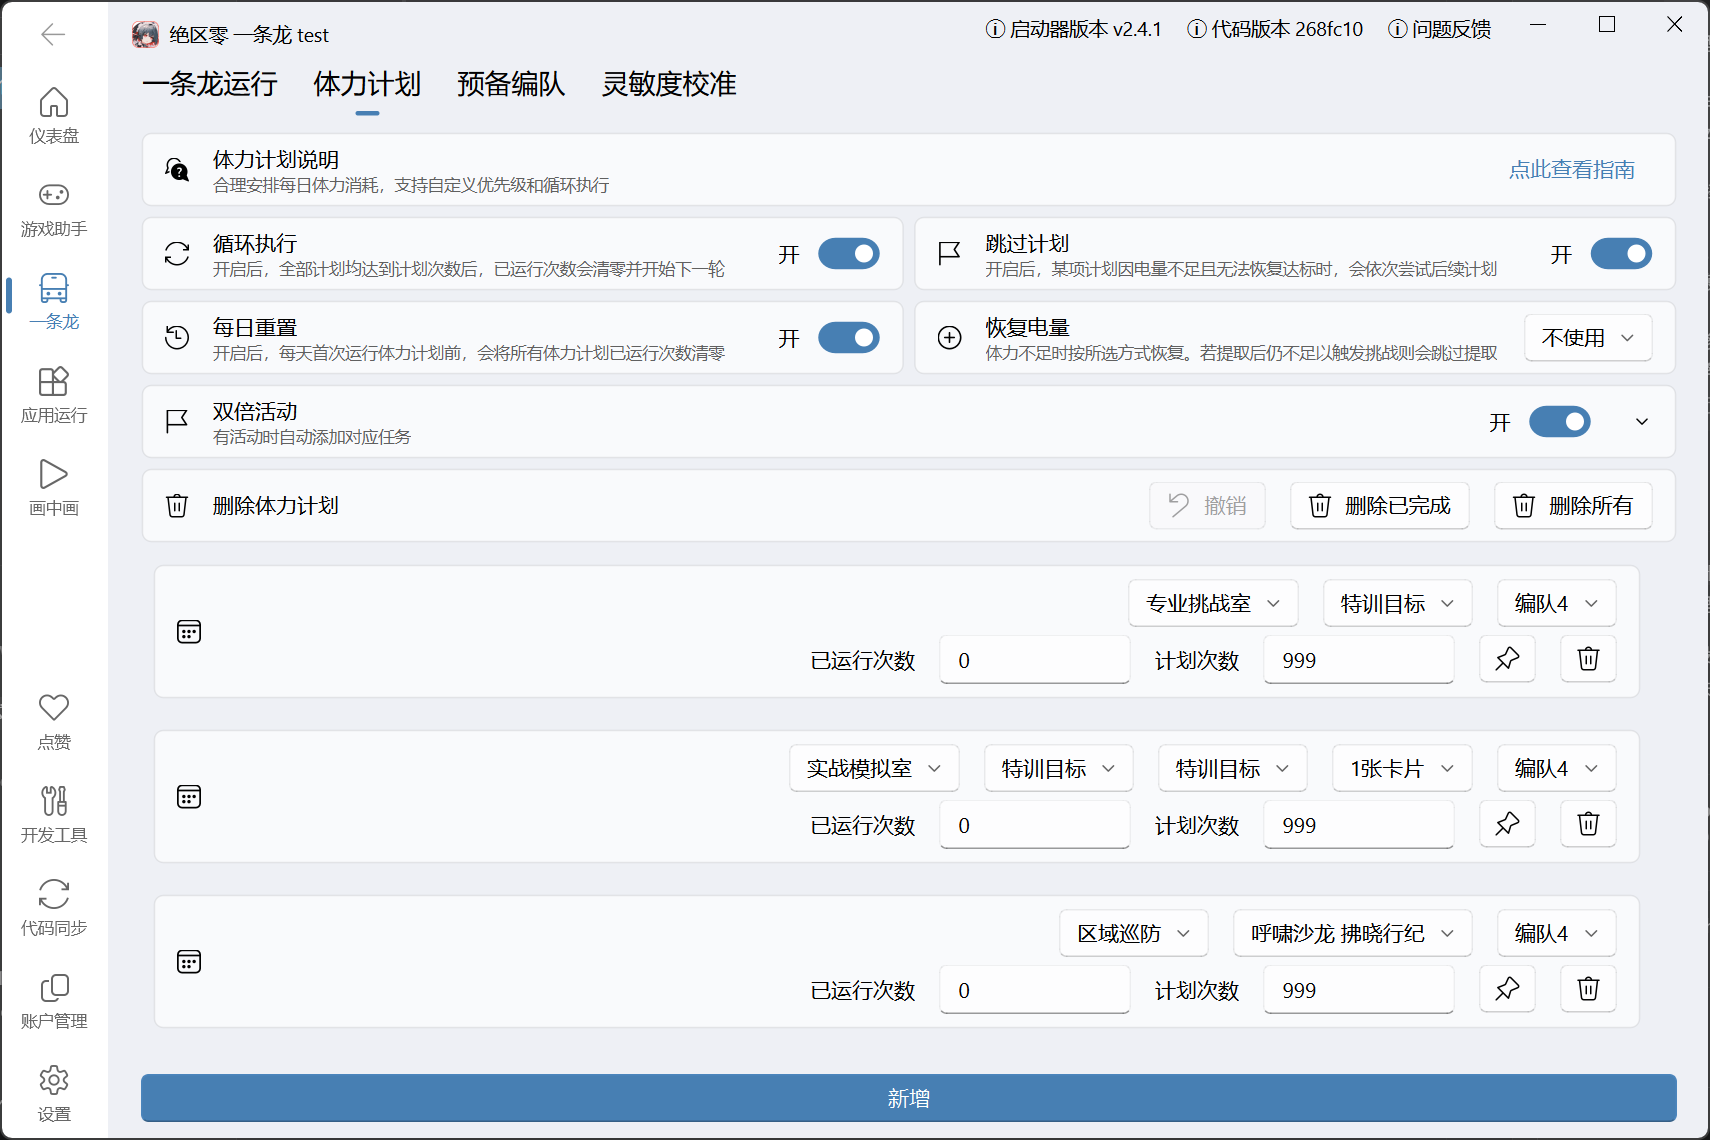
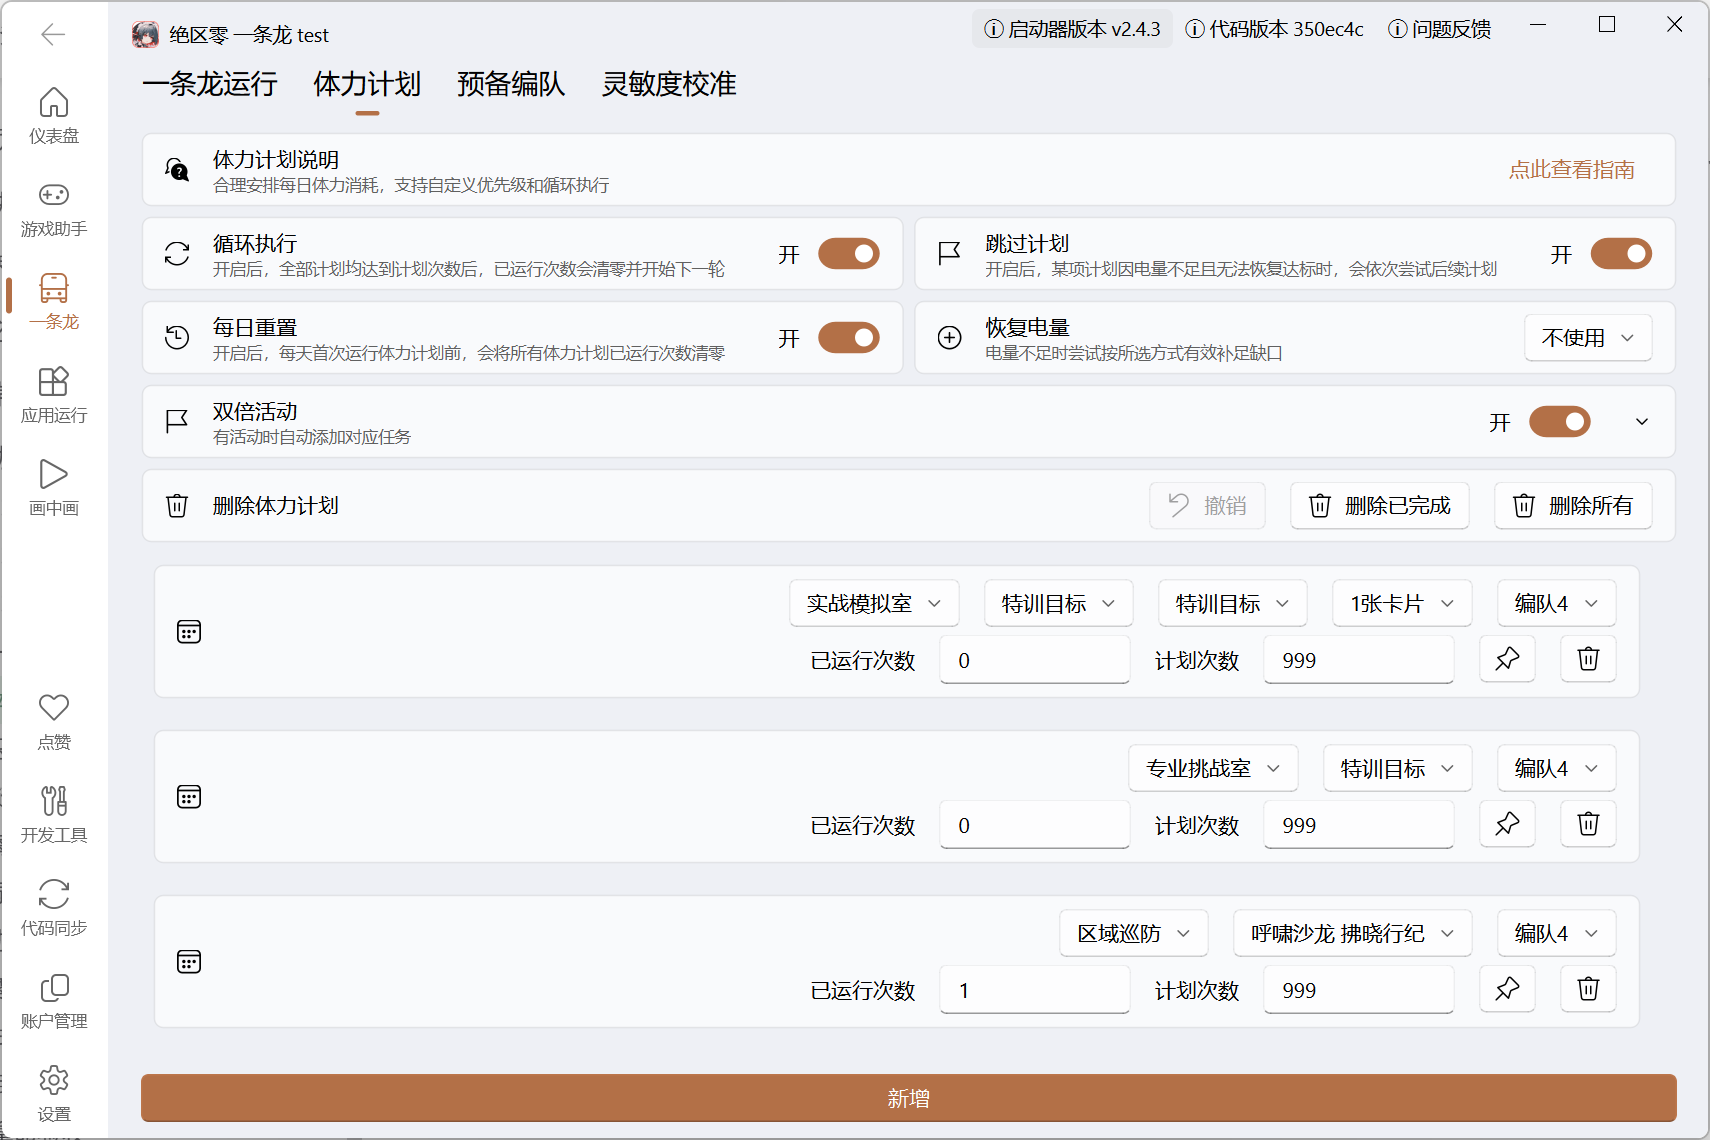
更新示例截图和标题 (#29)
* initial commit

* 更新示例截图和标题

Pull request: 更新示例截图和标题
<!-- This is an auto-generated comment: release notes by coderabbit.ai -->

## Summary by CodeRabbit

* **文档更新**
  * 更新快速启动参数示例图片，替换应用展示截图。
  * 新增恶名狩猎示例图片，并更新式舆防卫战与锄大地示例图片。
  * 调整充能计划文档中提示与截图的展示顺序。
  * 更新主页日期、界面说明及赞赏区域排版。
* **导航优化**
  * 更新“一条龙”相关导航及文档标题文案，使名称更加明确。

<!-- end of auto-generated comment: release notes by coderabbit.ai -->

diff --git a/src/.vuepress/sidebar/zh.ts b/src/.vuepress/sidebar/zh.ts
@@ -118,7 +118,7 @@ export const zhSidebar = sidebar({
               link: "feat/feat_one_dragon/world_patrol"
             },
             {
-              text: "拿命验收",
+              text: "真·拿命验收",
               link: "feat/feat_one_dragon/life_on_line"
             },
           ]

diff --git a/src/zzz/zh/feat/feat_one_dragon/charge_plan.md b/src/zzz/zh/feat/feat_one_dragon/charge_plan.md
@@ -62,8 +62,8 @@ date: 2026-07-01
 
 这样脚本会先尝试消耗实战模拟室活动双倍次数，再按计划列表顺序刷日常材料；电量不足且无法恢复达标时，开启 `跳过计划` 会继续尝试后续计划，关闭则会结束本次运行。代理人方案已完成、深度追猎暂不满足执行条件、单条计划执行失败等情况不受 `跳过计划` 控制，脚本会临时跳过当前计划，避免卡在同一条计划反复重试。
 
-![体力计划配置示例](charge_plan/charge_plan_example.png)
-
 ::: tip
 如果体力计划列表为空，或所有计划的 `计划次数` 都是 0，脚本会跳过体力刷本这个步骤。
 :::
+
+![体力计划示例](charge_plan/charge_plan_example.png)

diff --git a/src/zzz/zh/home.md b/src/zzz/zh/home.md
@@ -1,6 +1,7 @@
 ---
 lang: zh-CN
 title: 项目简介
+date: 2026-07-08
 ---
 
 ![应用展示](/images/zzz/zzz_app.png)
@@ -12,7 +13,7 @@ title: 项目简介
 
 基于图像识别的自动化智能解决方案
 
-![软件截图和通知功能展示](/images/zzz/app.png)
+![✨ 简洁直观的操作界面 ✨](/images/zzz/app.webp)
 
 <div align="center">
     <div>

diff --git a/src/zzz/zh/feat/feat_one_dragon/life_on_line.md b/src/zzz/zh/feat/feat_one_dragon/life_on_line.md
@@ -1,6 +1,6 @@
 ---
 lang: zh-CN
-title: 拿命验收
+title: 真·拿命验收
 date: 2026-07-01
 ---
 

diff --git a/src/zzz/zh/feat/feat_one_dragon/notorious_hunt.md b/src/zzz/zh/feat/feat_one_dragon/notorious_hunt.md
@@ -36,3 +36,5 @@ date: 2026-07-01
    - `恶名狩猎 buff`：选择进入副本时使用第几个 buff，默认为第一个。
    - `已运行次数 / 计划次数`：控制当前计划还要打多少次；`计划次数` 填 `0` 时，本轮不会执行这条计划。
    - 实际挑战次数还会受游戏内剩余奖励次数限制；计划没跑满但剩余次数为 `0` 时，也会结束本周。
+
+![恶名狩猎示例](notorious_hunt/notorious_hunt_example.png)

diff --git a/src/zzz/zh/feat/feat_one_dragon/shiyu_defense.md b/src/zzz/zh/feat/feat_one_dragon/shiyu_defense.md
@@ -33,7 +33,7 @@ date: 2026-07-01
 
 **核心原则：保证每个弱点都至少有一个编队勾选了。**
 
-![式舆防卫战](shiyu_defense/predefined_team.png)
+![式舆防卫战示例](shiyu_defense/shiyu_defense_example.png)
 
 - 操作方式：
   - 勾选某个编队对应的弱点类型 → 表示这个编队可以打这种弱点

diff --git a/src/zzz/zh/feat/feat_one_dragon/world_patrol.md b/src/zzz/zh/feat/feat_one_dragon/world_patrol.md
@@ -28,7 +28,7 @@ date: 2026-07-01
 
 **相关帖子**：[锄大地使用方法](https://pd.qq.com/s/cofn3sf28?b=2)
 
-![锄大地](world_patrol/world_patrol.png)
+![锄大地示例](world_patrol/world_patrol_example.png)
 
 ## 配置说明
 

diff --git a/src/zzz/zh/quickstart.md b/src/zzz/zh/quickstart.md
@@ -276,4 +276,4 @@ options:
 OneDragon-Launcher.exe -o -c
 ```
 
-![properties_demonstration](quickstart/properties_demonstration.png)
+![启动参数示例](quickstart/command-line_arguments_example.png)